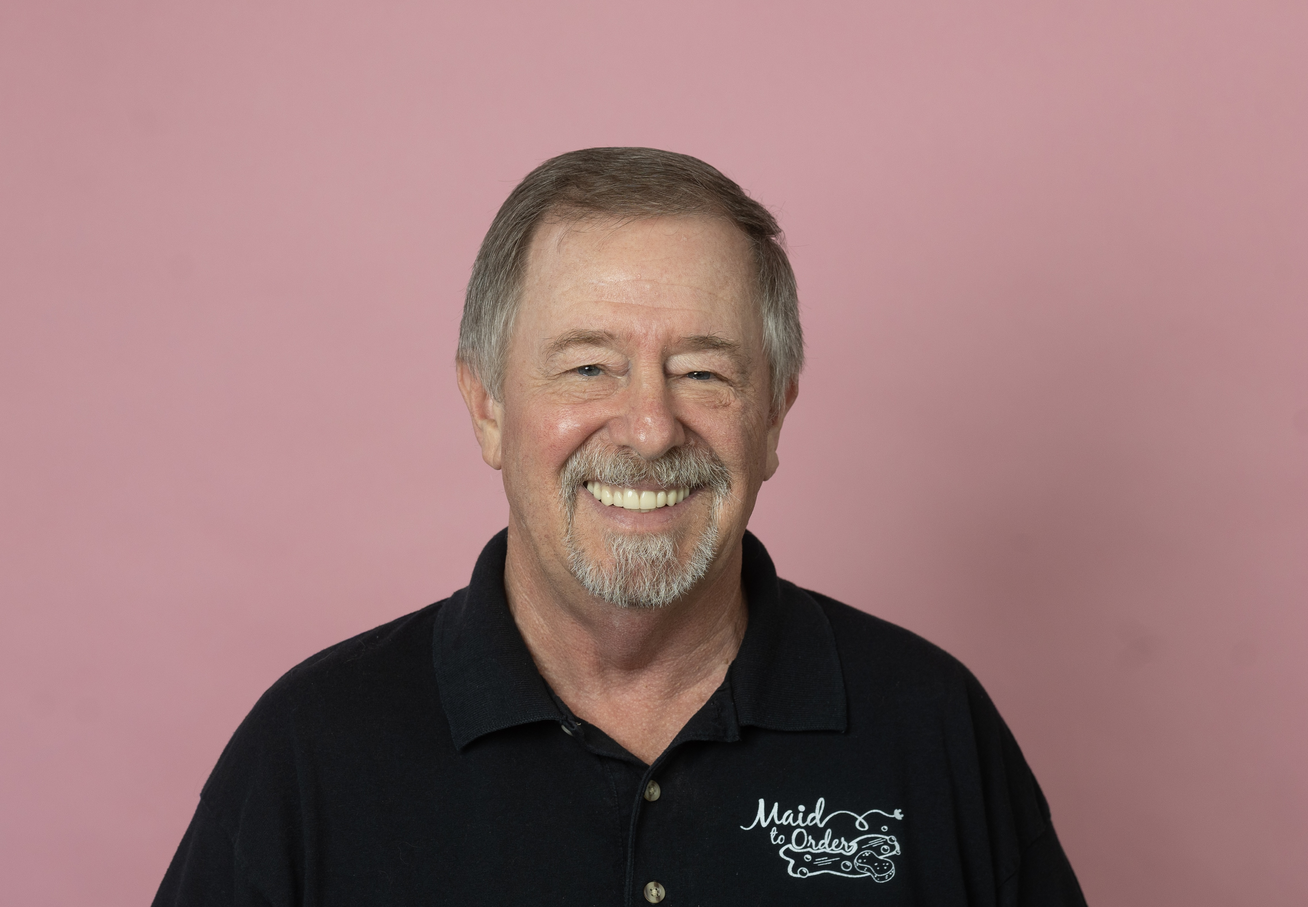
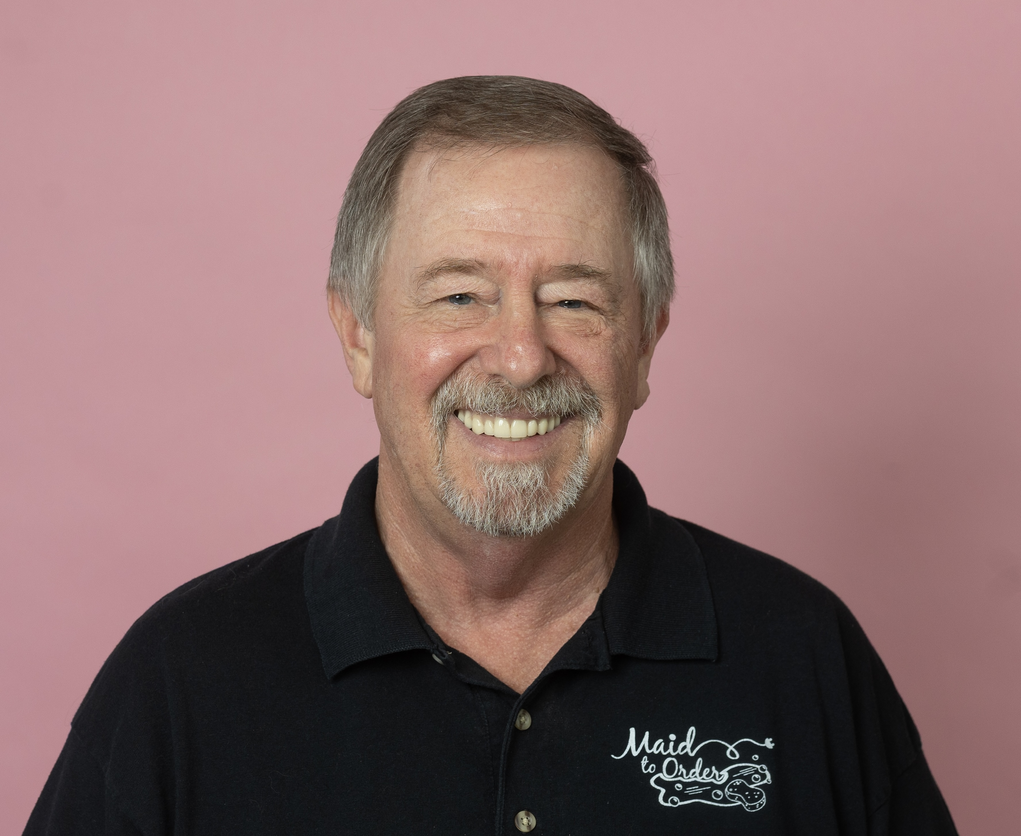
Updated header, board members, and footer

diff --git a/about-us.html b/about-us.html
@@ -17,7 +17,9 @@
           <a href="index.html">
             <img src="images/logo.jpeg" alt="Love Thy Neighbor Logo" />
           </a>
-          <span class="logo-text">Love Thy Neighbor</span>
+          <span class="logo-text"
+            ><a href="index.html" target="_blank">Love Thy Neighbor</a></span
+          >
         </div>
         <div class="hamburger" id="hamburger">
           <span></span>
@@ -189,34 +191,53 @@
         <div class="board-grid">
           <div class="board-member">
             <div class="board-photo">
-              <img src="images/joanne.png" alt="Joanne Braccio" />
+              <img src="images/joanne.png" alt="Joanne Braccio Headshot" />
             </div>
             <h3>Joanne Braccio</h3>
-            <p>Founder & Board Member</p>
+            <p>President</p>
           </div>
 
           <div class="board-member">
             <div class="board-photo">
-              <img src="images/savannha.png" alt="Savannha Sumner" />
+              <img src="" alt="Joe Huffstutler Headshot" />
             </div>
-            <h3>Savannha Sumner</h3>
-            <p>Board Member</p>
+            <h3>Joe Huffstutler</h3>
+            <p>Treasurer</p>
           </div>
 
           <div class="board-member">
             <div class="board-photo">
-              <img src="images/dan-pemberton.jpg" alt="Dan Pemberton" />
+              <img src="" alt="Patricia Butts Headshot" />
+            </div>
+            <h3>Patricia Butts</h3>
+            <p>Secretary and Title Trustee</p>
+          </div>
+
+          <div class="board-member">
+            <div class="board-photo">
+              <img
+                src="images/dan-pemberton.jpg"
+                alt="Dan Pemberton Headshot"
+              />
             </div>
             <h3>Dan Pemberton</h3>
-            <p>Board Member</p>
+            <p>Title VP</p>
           </div>
 
           <div class="board-member">
             <div class="board-photo">
-              <img src="images/missy.png" alt="Missy Muzzillo" />
+              <img src="images/savannha.png" alt="Savannha Sumner Headshot" />
+            </div>
+            <h3>Savannha Sumner</h3>
+            <p>Title Trustee</p>
+          </div>
+
+          <div class="board-member">
+            <div class="board-photo">
+              <img src="images/missy.png" alt="Missy Muzzillo Headshot" />
             </div>
             <h3>Missy Muzzillo</h3>
-            <p>Board Member</p>
+            <p>Title Trustee</p>
           </div>
         </div>
       </div>
@@ -250,14 +271,14 @@
           <p><strong>Email:</strong><br />info@lovethyneighborfl.org</p>
           <div class="social-links">
             <a
-              href="https://www.facebook.com/profile.php?id=100093370116046"
+              href="https://www.facebook.com/p/Love-Thy-Neighbor-Florida-100093370116046/"
               class="social-icon facebook"
               target="_blank"
               ref="noreferrer"
               >f</a
             >
             <a
-              href="#"
+              href="https://www.instagram.com/lovethyneighborfl/"
               class="social-icon camera"
               target="_blank"
               ref="noreferrer"

diff --git a/food-pantry.html b/food-pantry.html
@@ -17,7 +17,9 @@
           <a href="index.html">
             <img src="images/logo.jpeg" alt="Love Thy Neighbor Logo" />
           </a>
-          <span class="logo-text">Love Thy Neighbor</span>
+          <span class="logo-text"
+            ><a href="index.html" target="_blank">Love Thy Neighbor</a></span
+          >
         </div>
         <div class="hamburger" id="hamburger">
           <span></span>
@@ -236,27 +238,27 @@
             </ul>
           </div>
 
-          <div class="info-card">
-            <h3><span class="info-icon">📍</span> Location</h3>
-            <p class="address">
-              <strong>Love Thy Neighbor Food Pantry</strong><br />
-              7110 5th Avenue North<br />
-              St. Petersburg, FL 33710<br /><br />
-              <em>Same building as our Thrift Store</em>
-            </p>
-            <a
-              href="https://maps.app.goo.gl/VycZkEFrasVTe7g5A"
-              style="
-                color: #c93030;
-                text-decoration: none;
-                font-weight: 600;
-                margin-top: 1rem;
-                display: inline-block;
-              "
-              target="_blank"
-              rel="noreferrer"
-              >Get Directions →</a
-            >
+          <div class="footer-section">
+            <h3>Contact</h3>
+            <p><strong>General Inquiries:</strong><br />(727) 803-6977</p>
+            <p><strong>Cleaning Services:</strong><br />(727) 384-6243</p>
+            <p><strong>Email:</strong><br />info@lovethyneighborfl.org</p>
+            <div class="social-links">
+              <a
+                href="https://www.facebook.com/p/Love-Thy-Neighbor-Florida-100093370116046/"
+                class="social-icon facebook"
+                target="_blank"
+                ref="noreferrer"
+                >f</a
+              >
+              <a
+                href="https://www.instagram.com/lovethyneighborfl/"
+                class="social-icon camera"
+                target="_blank"
+                ref="noreferrer"
+                >📷</a
+              >
+            </div>
           </div>
 
           <div class="info-card">

diff --git a/thrift-store.html b/thrift-store.html
@@ -17,7 +17,9 @@
           <a href="index.html">
             <img src="images/logo.jpeg" alt="Love Thy Neighbor Logo" />
           </a>
-          <span class="logo-text">Love Thy Neighbor</span>
+          <span class="logo-text"
+            ><a href="index.html" target="_blank">Love Thy Neighbor</a></span
+          >
         </div>
         <div class="hamburger" id="hamburger">
           <span></span>
@@ -313,19 +315,19 @@
 
         <div class="footer-section">
           <h3>Contact</h3>
-          <p><strong>Thrift Store:</strong><br />(727) 803-6977</p>
+          <p><strong>General Inquiries:</strong><br />(727) 803-6977</p>
           <p><strong>Cleaning Services:</strong><br />(727) 384-6243</p>
           <p><strong>Email:</strong><br />info@lovethyneighborfl.org</p>
           <div class="social-links">
             <a
-              href="https://www.facebook.com/profile.php?id=100093370116046"
+              href="https://www.facebook.com/p/Love-Thy-Neighbor-Florida-100093370116046/"
               class="social-icon facebook"
               target="_blank"
               ref="noreferrer"
               >f</a
             >
             <a
-              href="#"
+              href="https://www.instagram.com/lovethyneighborfl/"
               class="social-icon camera"
               target="_blank"
               ref="noreferrer"

diff --git a/contact.html b/contact.html
@@ -17,7 +17,9 @@
           <a href="index.html">
             <img src="images/logo.jpeg" alt="Love Thy Neighbor Logo" />
           </a>
-          <span class="logo-text">Love Thy Neighbor</span>
+          <span class="logo-text"
+            ><a href="index.html" target="_blank">Love Thy Neighbor</a></span
+          >
         </div>
         <div class="hamburger" id="hamburger">
           <span></span>
@@ -294,14 +296,14 @@
           <p><strong>Email:</strong><br />info@lovethyneighborfl.org</p>
           <div class="social-links">
             <a
-              href="https://www.facebook.com/profile.php?id=100093370116046"
+              href="https://www.facebook.com/p/Love-Thy-Neighbor-Florida-100093370116046/"
               class="social-icon facebook"
               target="_blank"
               ref="noreferrer"
               >f</a
             >
             <a
-              href="#"
+              href="https://www.instagram.com/lovethyneighborfl/"
               class="social-icon camera"
               target="_blank"
               ref="noreferrer"

diff --git a/index.html b/index.html
@@ -17,7 +17,9 @@
           <a href="index.html">
             <img src="images/logo.jpeg" alt="Love Thy Neighbor Logo" />
           </a>
-          <span class="logo-text">Love Thy Neighbor</span>
+          <span class="logo-text"
+            ><a href="index.html" target="_blank">Love Thy Neighbor</a></span
+          >
         </div>
         <div class="hamburger" id="hamburger">
           <span></span>
@@ -284,14 +286,14 @@
           <p><strong>Email:</strong><br />info@lovethyneighborfl.org</p>
           <div class="social-links">
             <a
-              href="https://www.facebook.com/profile.php?id=100093370116046"
+              href="https://www.facebook.com/p/Love-Thy-Neighbor-Florida-100093370116046/"
               class="social-icon facebook"
               target="_blank"
               ref="noreferrer"
               >f</a
             >
             <a
-              href="#"
+              href="https://www.instagram.com/lovethyneighborfl/"
               class="social-icon camera"
               target="_blank"
               ref="noreferrer"

diff --git a/partners.html b/partners.html
@@ -17,7 +17,9 @@
           <a href="index.html">
             <img src="images/logo.jpeg" alt="Love Thy Neighbor Logo" />
           </a>
-          <span class="logo-text">Love Thy Neighbor</span>
+          <span class="logo-text"
+            ><a href="index.html" target="_blank">Love Thy Neighbor</a></span
+          >
         </div>
         <div class="hamburger" id="hamburger">
           <span></span>
@@ -357,14 +359,14 @@
           <p><strong>Email:</strong><br />info@lovethyneighborfl.org</p>
           <div class="social-links">
             <a
-              href="https://www.facebook.com/profile.php?id=100093370116046"
+              href="https://www.facebook.com/p/Love-Thy-Neighbor-Florida-100093370116046/"
               class="social-icon facebook"
               target="_blank"
               ref="noreferrer"
               >f</a
             >
             <a
-              href="#"
+              href="https://www.instagram.com/lovethyneighborfl/"
               class="social-icon camera"
               target="_blank"
               ref="noreferrer"

diff --git a/about-us.css b/about-us.css
@@ -41,6 +41,9 @@ nav {
 .logo-text {
   font-family: "Pacifico", cursive;
   font-size: 1.5rem;
+}
+
+.logo-text a {
   color: #d85b7f;
 }
 
@@ -259,6 +262,11 @@ nav a:hover {
   text-align: right;
 }
 
+.timeline-item:nth-child(odd) .timeline-year {
+  grid-column: 1;
+  text-align: right;
+}
+
 .timeline-year {
   font-size: 2rem;
   font-weight: 700;
@@ -299,7 +307,7 @@ nav a:hover {
 
 .board-grid {
   display: grid;
-  grid-template-columns: repeat(auto-fit, minmax(250px, 1fr));
+  grid-template-columns: repeat(auto-fit, minmax(350px, 1fr));
   gap: 2rem;
   margin-top: 2rem;
 }

diff --git a/contact.css b/contact.css
@@ -41,6 +41,9 @@ nav {
 .logo-text {
   font-family: "Pacifico", cursive;
   font-size: 1.5rem;
+}
+
+.logo-text a {
   color: #d85b7f;
 }
 

diff --git a/food-pantry.css b/food-pantry.css
@@ -41,6 +41,9 @@ nav {
 .logo-text {
   font-family: "Pacifico", cursive;
   font-size: 1.5rem;
+}
+
+.logo-text a {
   color: #d85b7f;
 }
 

diff --git a/index.css b/index.css
@@ -41,6 +41,9 @@ nav {
 .logo-text {
   font-family: "Pacifico", cursive;
   font-size: 1.5rem;
+}
+
+.logo-text a {
   color: #d85b7f;
 }
 

diff --git a/partners.css b/partners.css
@@ -41,6 +41,9 @@ nav {
 .logo-text {
   font-family: "Pacifico", cursive;
   font-size: 1.5rem;
+}
+
+.logo-text a {
   color: #d85b7f;
 }
 

diff --git a/thrift-store.css b/thrift-store.css
@@ -41,6 +41,9 @@ nav {
 .logo-text {
   font-family: "Pacifico", cursive;
   font-size: 1.5rem;
+}
+
+.logo-text a {
   color: #d85b7f;
 }
 
